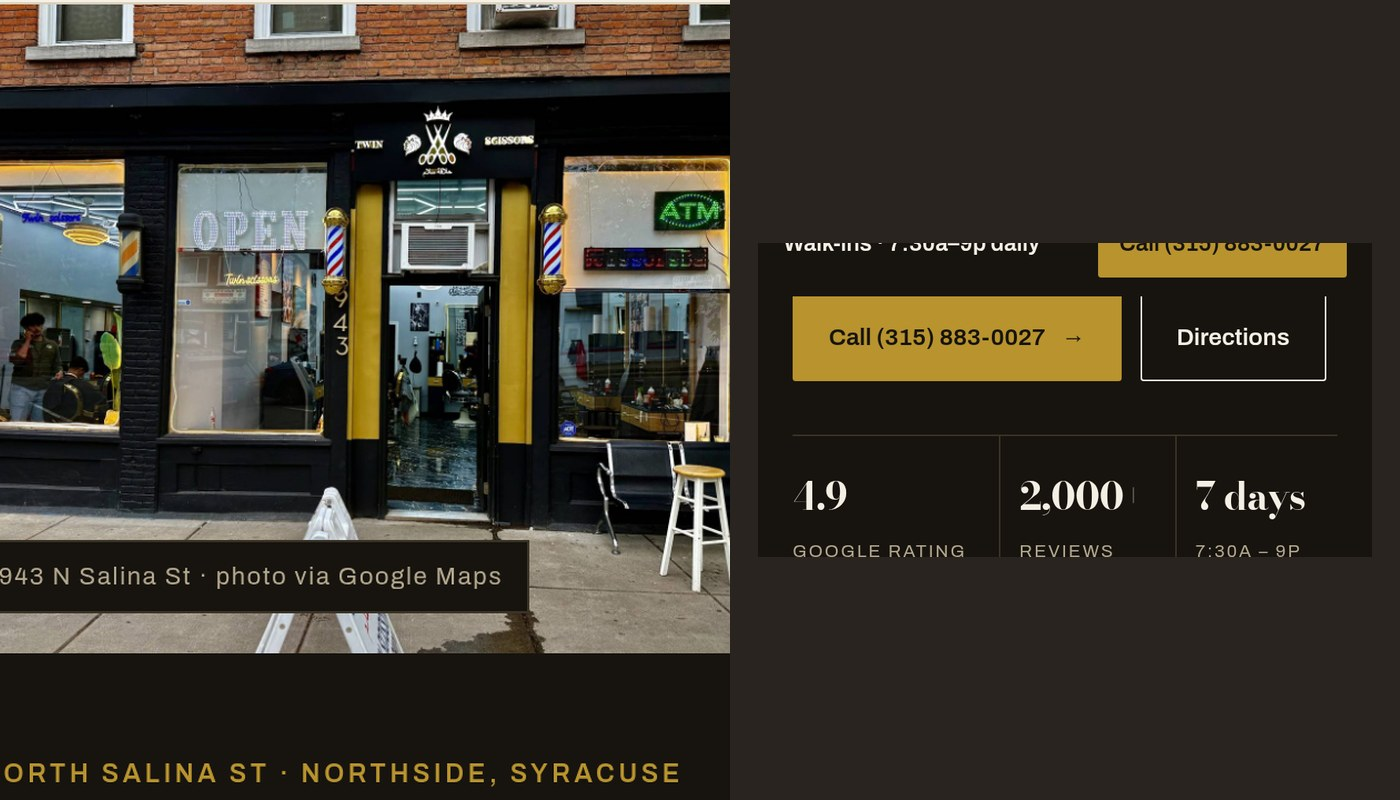
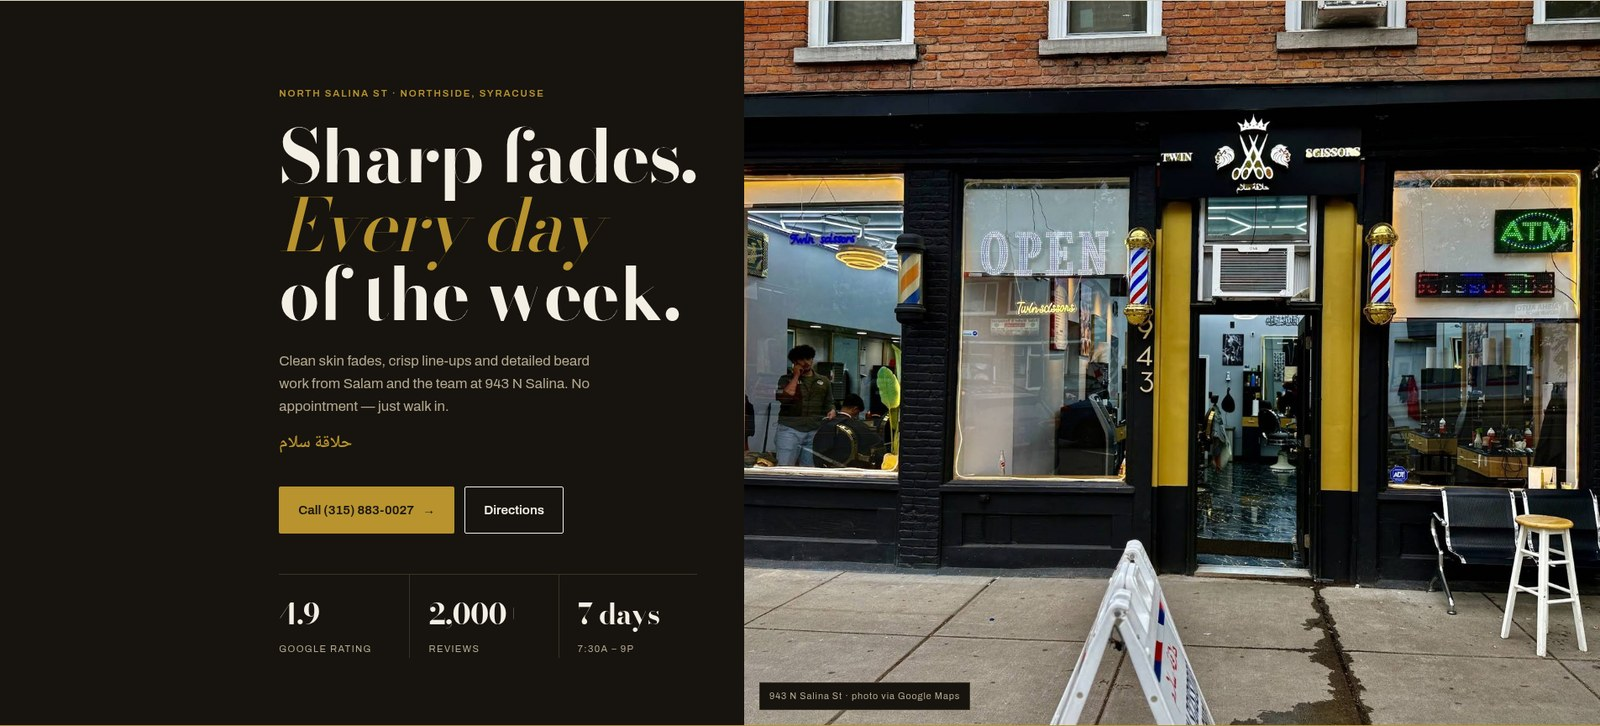
Swap in natural Twin Scissors hero with Call and Directions
Use the live-sample viewport screenshot instead of the earlier composite crop.

diff --git a/index.html b/index.html
@@ -49,8 +49,8 @@
           <img
             src="assets/after/twin-scissors-hero.jpg"
             alt="Twin Scissors Barbershop redesign — storefront hero with Call and Directions buttons"
-            width="1400"
-            height="800"
+            width="1600"
+            height="726"
             loading="eager"
             fetchpriority="high">
         </figure>
